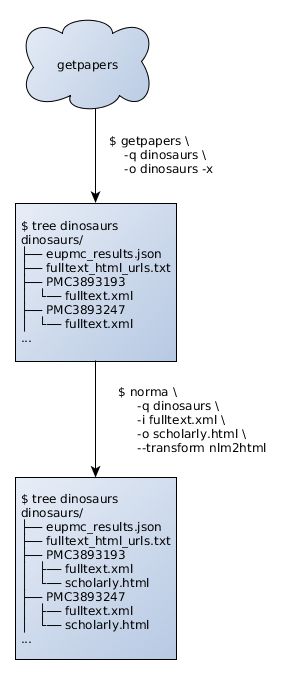
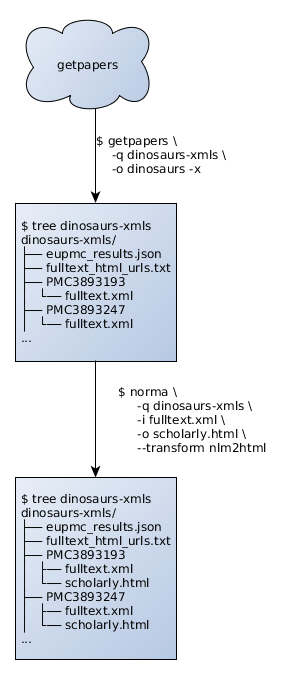
polished it a bit!

diff --git a/software-tutorials/norma/norma-tutorial.md b/software-tutorials/norma/norma-tutorial.md
@@ -4,11 +4,11 @@
 
 Scientific literature is vast, and their representations are as manifold as their content. But below the superficial differences in appearance and layout, scientific literature follows a generally accepted structure. This structure has been formalized and translated into machine readable format via [scholarly HTML](../sHTML/sHTML-overview.md) (sHTML). If you want to successfully apply search and retrieval techniques onto a collection of papers, or to do a comprehensive literature review, the diverse website, PDF or other document formats have to be converted into a uniform, consistent structure. This process is called *normalization*, and the tool in the ContentMine pipeline performing this step is called **norma**. norma furthermore possesses the ability to reverse engineer graphs, and e.g. extract data points from a timeline.
 
-norma offers a web of paths between three different input streams (an API-query from [getpapers](../getpapers/getpapers-tutorial.md), a URL-scrape from [quickscrape](../quickscrape-tutorial.md), and an existing collection of PDFs), and three different outputs (a collection of sHTML-files, ). The goal is to create a scholarly HTML-file for each source document, in order to run search and retrieve tools ([ami](../ami/ami-tutorial.md) or [cat](../cat/cat-tutorial.md)). We will learn how to compare and validate the output of norma in the tutorial for [scholarly HTML](../sHTML/sHTML-overview.md).
+norma offers a web of paths between three different input streams (an API-query from [getpapers](../getpapers/getpapers-tutorial.md), a URL-scrape from [quickscrape](../quickscrape-tutorial.md), and an existing collection of PDFs), and three different outputs (a collection of sHTML-files, ). The goal is to create a scholarly HTML-file for each source document, in order to run search and retrieve tools ([ami](../ami/ami-tutorial.md) or [cat](../cat/cat-tutorial.md)). We will learn how to compare and validate the output of norma in the [overview for scholarly HTML](../sHTML/sHTML-overview.md).
 
 ![normasmall0](../../resources/images/software/norma/normasmall0.png)
 
-Here we will trace the path through norma for three use cases:
+Now we will trace the path through norma for three use cases:
 * normalizing search results from getpapers towards sHTML
 * normalizing search results from quickscrape towards sHTML
 * normalizing a collection of PDFs towards simple text files
@@ -26,24 +26,38 @@ Here we will trace the path through norma for three use cases:
 
 ### Installation
 
-norma can be installed from the latest `.deb`-file on [link missing](404)
+norma can be installed from the latest `.deb`-file, [Download here](https://jenkins.ch.cam.ac.uk/view/AMI2/job/norma/org.xml-cml$norma/lastSuccessfulBuild/artifact/org.xml-cml/norma/0.1-SNAPSHOT/norma-0.1-SNAPSHOT.deb)
 
+```
+wget https://jenkins.ch.cam.ac.uk/view/AMI2/job/norma/org.xml-cml$norma/lastSuccessfulBuild/artifact/org.xml-cml/norma/0.1-SNAPSHOT/norma-0.1-SNAPSHOT.deb
+sudo dpkg -i norma-0.1-SNAPSHOT.deb
+# the password is password
+```
+
+The tutorial has been developed on 
+```
+$ norma --version
+norma(0.1.8)
+```
 
 ### XML to sHTML
 
 ![normaxml2shtml](../../resources/images/software/norma/normaxml2shtml0.png)
 
+**Overview**
 ![xml2shtml](../../resources/images/software/norma/xml2shtml.png)
 
-In this case we start with a ctree containing search results from 
+
+We start with a search results with getpapers
 
 ```bash
 $ getpapers -q dinosaurs -o dinosaurs-xmls -x
 ```
 
-```bash
-$ tree dinosaurs
-dinosaurs/
+getpapers returns a **project folder** containing search metadata and ctrees. Each ctree holds all data regarding one paper, in this case a `fulltext.xml`.
+```
+$ tree dinosaurs-xmls
+dinosaurs-xmls/
 ├── eupmc_results.json
 ├── fulltext_html_urls.txt
 ├── PMC3893193
@@ -53,7 +67,7 @@ dinosaurs/
 ...
 ```
 
-We transform them into sHTML with
+We transform the fulltext.xml-files into sHTML. This can be done in bulk by passing the project folder with `-q`. The input/output-parameters `-i` and `-o` are verbose at the moment, we are working on simplifying to command, so that only the transformation parameter `--transform nlm2html` is needed. It is possible that norma prints a lot of debugging information, this does not automatically mean that something is wrong.
 
 ```bash
 $ norma \
@@ -63,8 +77,7 @@ $ norma \
      --transform nlm2html
 ```
 
-`-q` is the parameter specifying the project-folder location, containing ctrees. `-i` is the parameter specifying the files to take as input, in this case fulltext.xml. `-o` is the parameter specifying the desired output, in this case scholarly.html. `--transform`` is the parameter specifying the normalizing process to undertake, in this case a conversion from XML to sHTML. The ctree then is added with a scholary.html.
-
+If a `scholarly.html`-file has been added to each ctree, norma was succesful.
 
 ```bash
 $ tree dinosaurs
@@ -87,7 +100,7 @@ dinosaurs/
 
 ![html2shtml](../../resources/images/software/norma/html2shtml.png)
 
-The path from a fulltext.html to a scholarly.html is one step longer. We begin with the results of a quickscrape of a list of fulltext-urls (this has to be provided by you).
+The path from a fulltext.html to a scholarly.html is a few steps longer. We begin with the results of a quickscrape of a list of fulltext-urls (this has to be provided by you).
 
 ```bash
 $ quickscrape \
@@ -96,7 +109,7 @@ $ quickscrape \
     -d journal-scrapers/scrapers
 ```
 
-
+getpapers creates a project folder again containing ctrees. The metadata files are now within each ctree.
 ```bash
 $ tree dinosaurs-html
 dinosaurs-htmls/
@@ -112,6 +125,7 @@ dinosaurs-htmls/
 ...
 ```
 
+We first need to tidy up the `fulltext.html`-files. For this we pass the project folder with `q`, specify input and output files with `-i and `-o` and use `--html jsoup` for cleaning the html.
 ```bash
 $ norma \
     -q dinosaurs-html \
@@ -120,7 +134,7 @@ $ norma \
     --html jsoup
 ```
 
-
+This procedures creates an intermediary document `fulltext.xhtml`. 
 ```bash
 $ tree dinosaurs-htmls/
 dinosaurs-htmls/
@@ -139,7 +153,7 @@ dinosaurs-htmls/
 ...
 ```
 
-
+We perform the final transformation to shtml with a specific transformation, which requires specific html-styles for each publisher. At the moment only one is available for testing purposes.
 ```bash
 $ norma \
     -q dinosaurs-htmls/ \
@@ -148,7 +162,7 @@ $ norma \
     --transform nature2html
 ```
 
-
+We then have a project folder with ctrees, that trace the path from `fulltext.html` to `scholarly.html`
 ```bash
 $ tree dinosaurs-htmls/
 dinosaurs-htmls/
@@ -170,9 +184,10 @@ dinosaurs-htmls/
 ...
 ```
 
-**Problem: only one transformation nature2html available?**
 
 ### PDF collections to TXT
+
+This is still in an experimental stage. It works, but the output is not very clean and not ready for further preprocessing. But if you want to extract the *raw content* of a PDF, this is possible here.
 
 ![pdf2txt](../../resources/images/software/norma/pdf2txt.png)
 
@@ -246,8 +261,6 @@ dinosaurs-pdfs/
 
 ### Summary and next steps
 
-Following transformations are possible, with different goals in mind:
-* 
 
 
 **Next steps**
